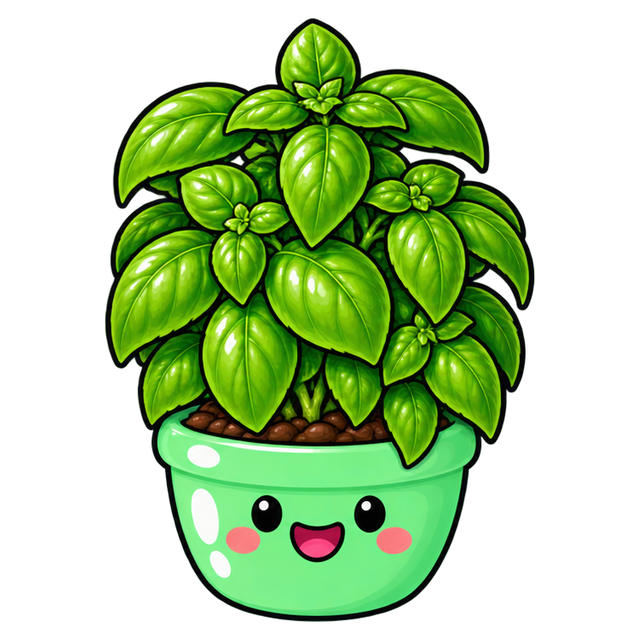
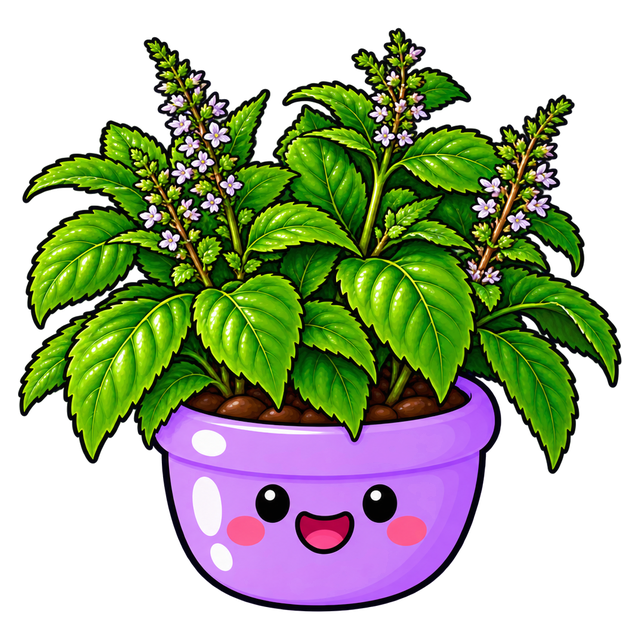
Scent leaf: use the flowering drawing in a purple pot
Claude-Session: https://claude.ai/code/session_015RxAJdHfQtruXpuwTDDmmx

diff --git a/src/data/catalog/edibles.ts b/src/data/catalog/edibles.ts
@@ -78,7 +78,7 @@ export const EDIBLE_PLANTS: Species[] = [
   { id: 'lemon-balm', commonName: 'Lemon balm', latinName: 'Melissa officinalis', group: 'moisture', defaultSoil: 'veg_mix', defaultLight: 'bright', petToxic: false, edible: true, artPot: 'blue', art: 'lemon-balm', category: 'herb', aliases: ['balm', 'melissa'], tip: 'Mint’s easygoing cousin. Cut it hard in midsummer for fresh leaves, and before it self-seeds.' },
   { id: 'bay-laurel', commonName: 'Bay laurel', latinName: 'Laurus nobilis', group: 'edible', defaultSoil: 'potting_mix', defaultLight: 'bright', petToxic: true, edible: true, artPot: 'blue', art: 'bay-laurel', category: 'herb', aliases: ['bay leaf', 'bay tree', 'sweet bay'], tip: 'A slow, tidy shrub for years in one pot. Hardy in Seattle; just shelter it from icy winds.' },
   { id: 'lavender', commonName: 'Lavender', latinName: 'Lavandula angustifolia', group: 'succulent', defaultSoil: 'gritty', defaultLight: 'direct', petToxic: true, edible: true, artPot: 'bubblegum', art: 'lavender', category: 'herb', aliases: ['english lavender', 'culinary lavender', 'munstead', 'hidcote'], match: { genus: ['lavandula'] }, tip: 'English types are the tasty, hardy ones. Full sun, gritty mix, and shear after flowering.' },
-  { id: 'scent-leaf', commonName: 'Scent leaf', latinName: 'Ocimum gratissimum', group: 'edible', defaultSoil: 'veg_mix', defaultLight: 'direct', petToxic: false, edible: true, artPot: 'blue', art: 'scent-leaf', category: 'herb', aliases: ['nunum', 'efirin', 'African basil', 'clove basil', 'tea bush'], tip: 'Ghana’s bushy basil for soups. Pinch the flower spikes; in Seattle, keep it warm and inside in winter.' },
+  { id: 'scent-leaf', commonName: 'Scent leaf', latinName: 'Ocimum gratissimum', group: 'edible', defaultSoil: 'veg_mix', defaultLight: 'direct', petToxic: false, edible: true, artPot: 'grape', art: 'scent-leaf', category: 'herb', aliases: ['nunum', 'efirin', 'African basil', 'clove basil', 'tea bush'], tip: 'Ghana’s bushy basil for soups. Pinch the flower spikes; in Seattle, keep it warm and inside in winter.' },
   { id: 'ginger', commonName: 'Ginger', latinName: 'Zingiber officinale', group: 'moisture', defaultSoil: 'veg_mix', defaultLight: 'bright', petToxic: false, edible: true, artPot: 'yellow', art: 'ginger', category: 'herb', aliases: ['ginger root', 'kakaduro'], tip: 'Plant a plump, budded piece shallow in a wide pot. Warm and humid; dig it after 8–10 months.' },
 
   // Fruit.
